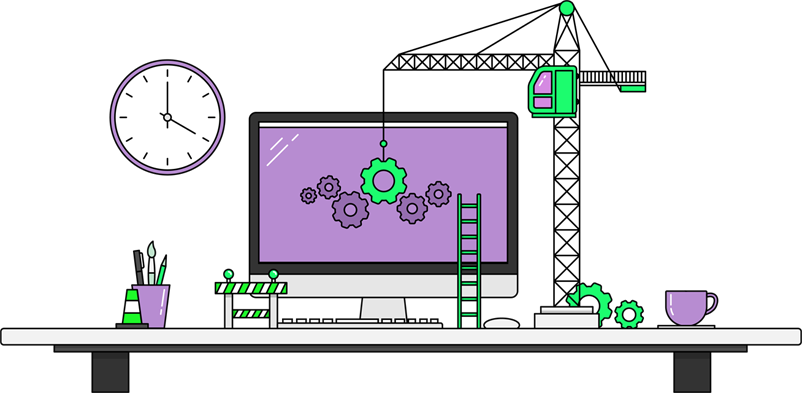
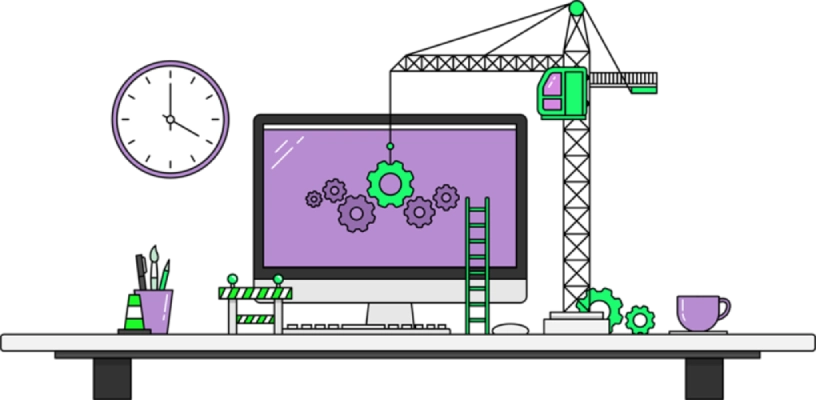
images format changed to webp for performance

diff --git a/src/components/navbar/Navbar.jsx b/src/components/navbar/Navbar.jsx
@@ -29,16 +29,31 @@ export default function Navbar() {
           </div>
           <div className="social">
             <a href="https://github.com/tahseen-haider" target="_blank">
-              <img width={30} height={30} src="/images/navbar/github.jpg" alt="github-link" />
+              <img
+                width={30}
+                height={30}
+                src="/images/navbar/github.webp"
+                alt="github-link"
+              />
             </a>
             <a
               href="https://www.facebook.com/people/Tahseen-Haider/pfbid06dGfVscMm12bERh5ojavyAqUj398hzmYSeSEorkSnApiBxy5Va3FGim5H1VbFzsAl/"
               target="_blank"
             >
-              <img width={30} height={30} src="/images/navbar/facebook.png" alt="facebook-link" />
+              <img
+                width={30}
+                height={30}
+                src="/images/navbar/facebook.webp"
+                alt="facebook-link"
+              />
             </a>
             <a href="https://www.instagram.com/tahseen021/" target="_blank">
-              <img width={30} height={30} src="/images/navbar/instagram.png" alt="instagram-link" />
+              <img
+                width={30}
+                height={30}
+                src="/images/navbar/instagram.webp"
+                alt="instagram-link"
+              />
             </a>
           </div>
         </div>

diff --git a/src/components/projects/components/ProjectShowcase.jsx b/src/components/projects/components/ProjectShowcase.jsx
@@ -23,7 +23,7 @@ export default function ProjectShowcase({ laptopImg, phoneImg }) {
           <div className="screenImage">
             <div className="screen">
               <img width={30} height={30}
-                src={`/images/projects/${currentScreen}.png`}
+                src={`/images/projects/${currentScreen}.webp`}
                 alt={`${currentScreen}-frame`}
               />
             </div>
@@ -60,7 +60,7 @@ export default function ProjectShowcase({ laptopImg, phoneImg }) {
           src={
             currentScreen === "laptop"
               ? "/images/projects/phone.webp"
-              : "/images/projects/laptop.png"
+              : "/images/projects/laptop.webp"
           }
           alt={currentScreen === "laptop" ? "phone-image" : "laptop-image"}
         />

diff --git a/src/components/hero/Hero.jsx b/src/components/hero/Hero.jsx
@@ -136,7 +136,7 @@ export default function Hero() {
             }}
             variants={textVariants}
             animate="scrollButton"
-            src="/images/hero/scroll.png"
+            src="/images/hero/scroll.webp"
             alt="image"
           />
         </motion.div>
